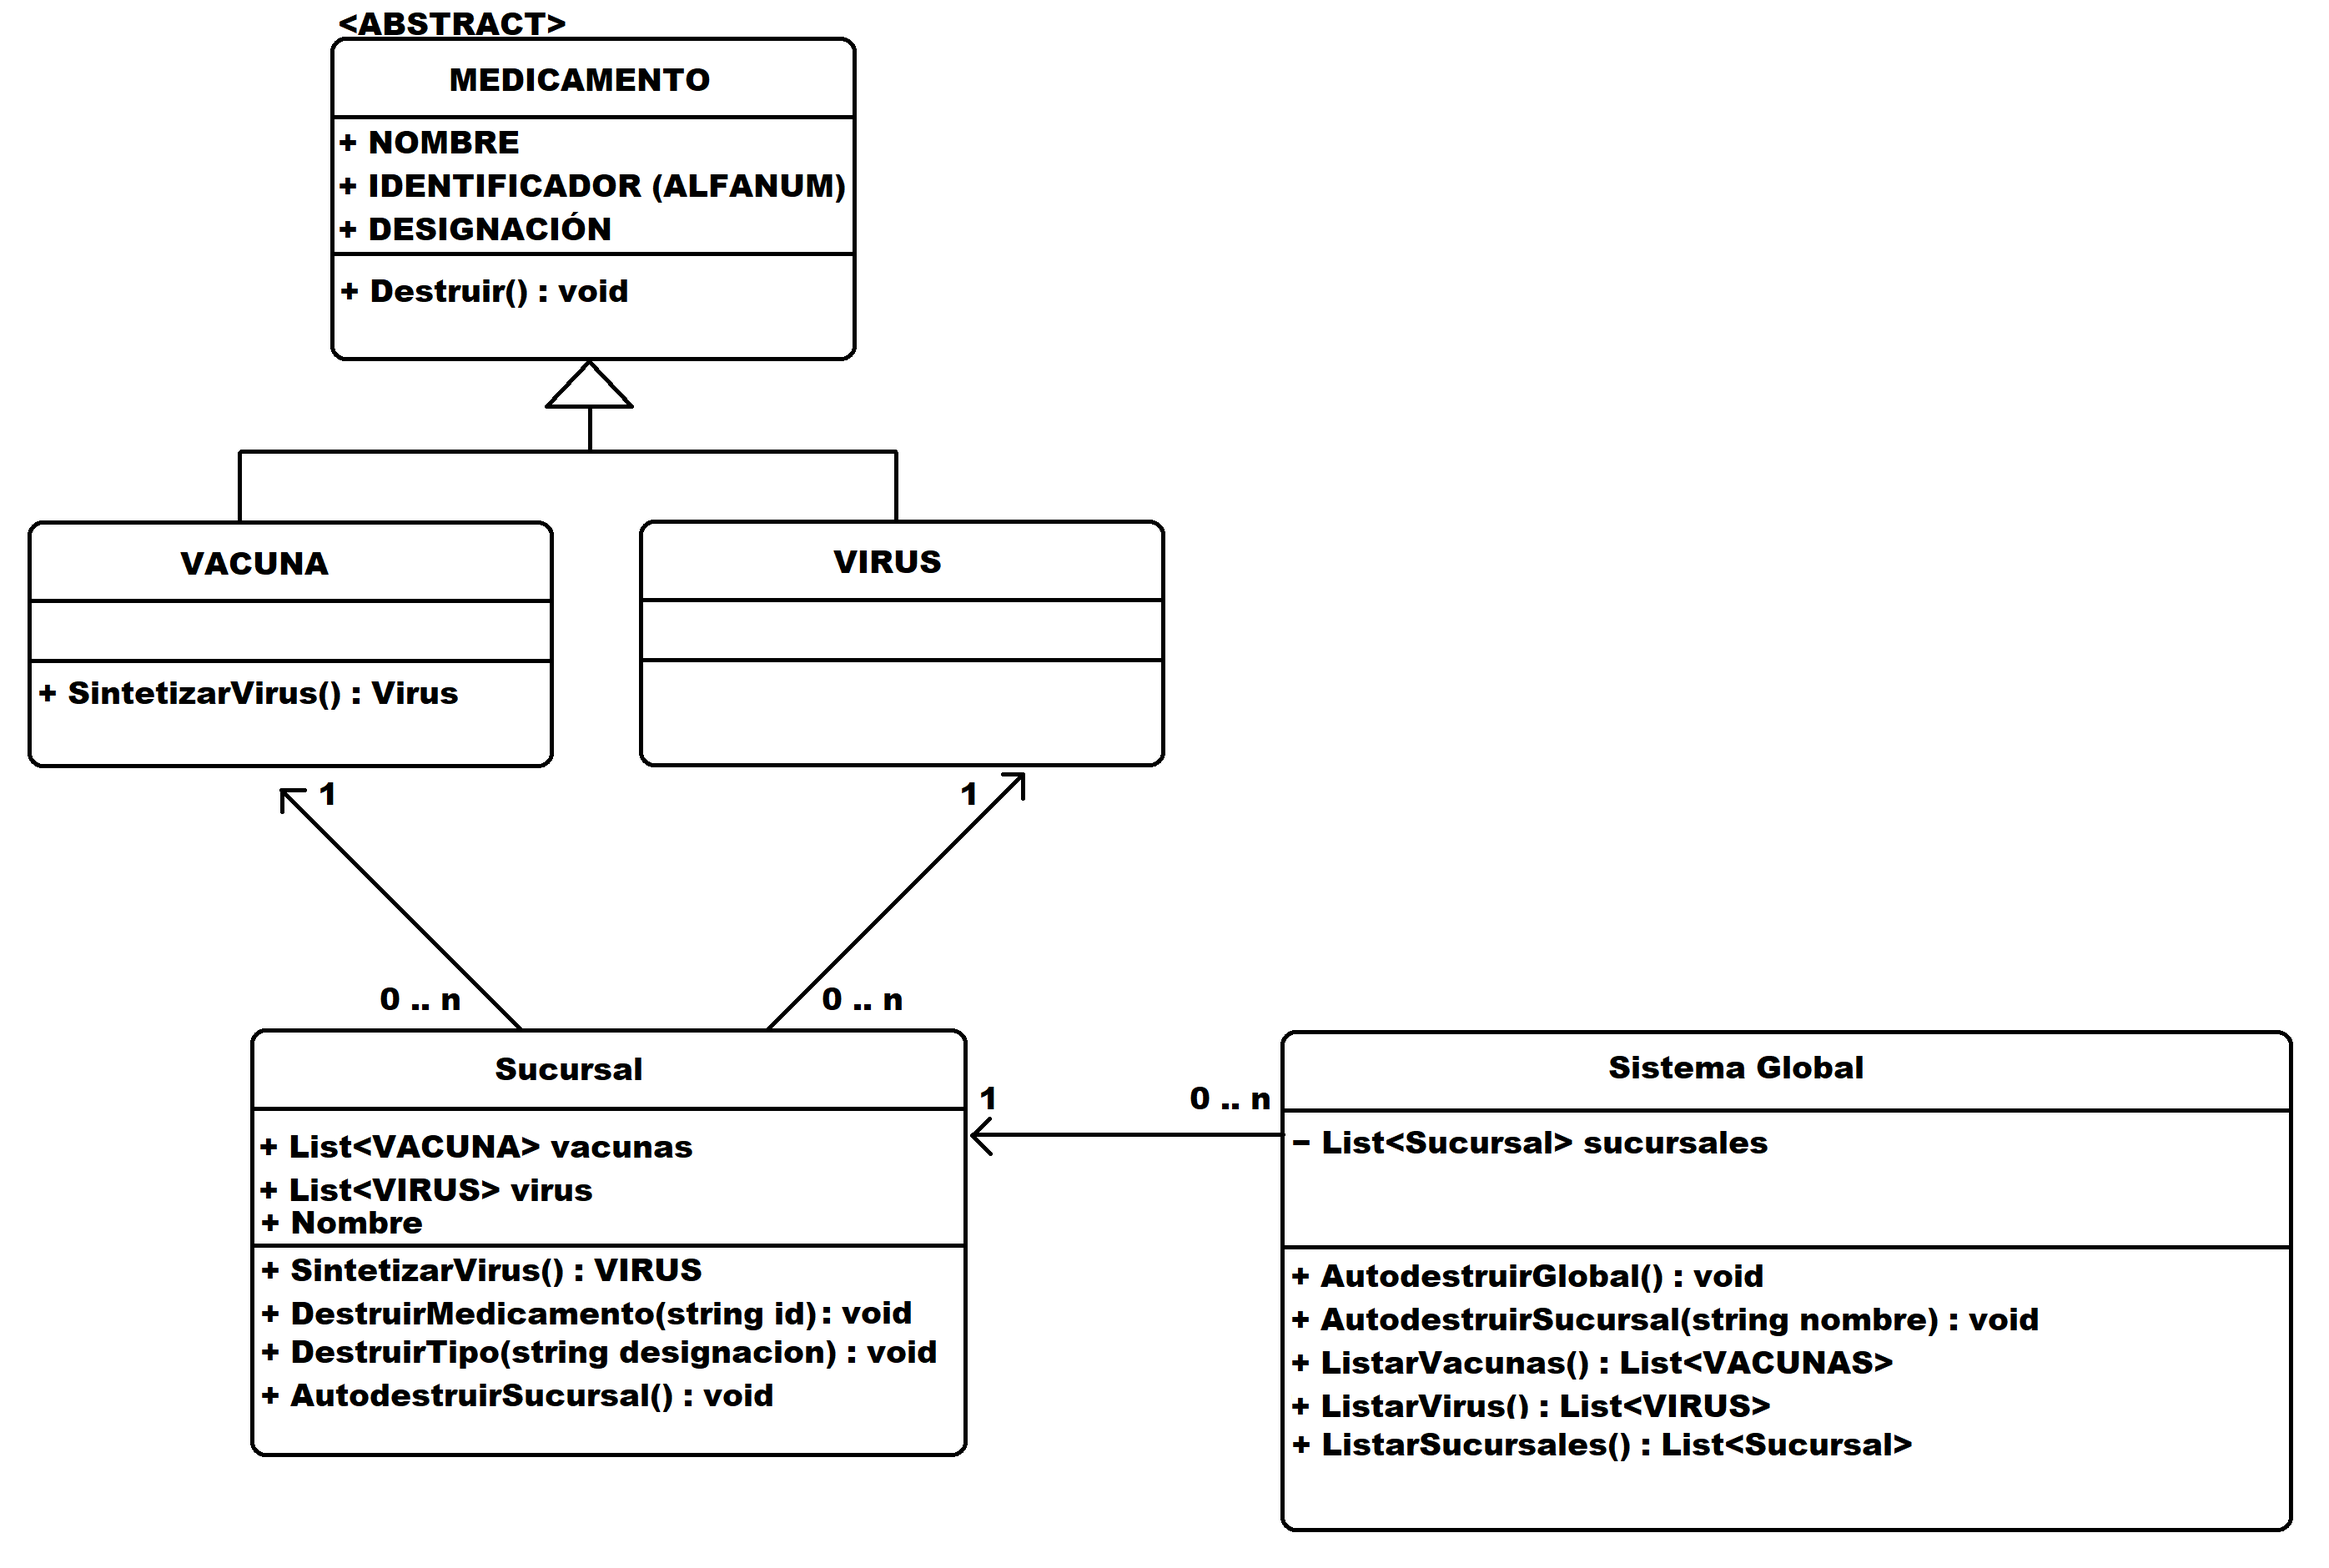
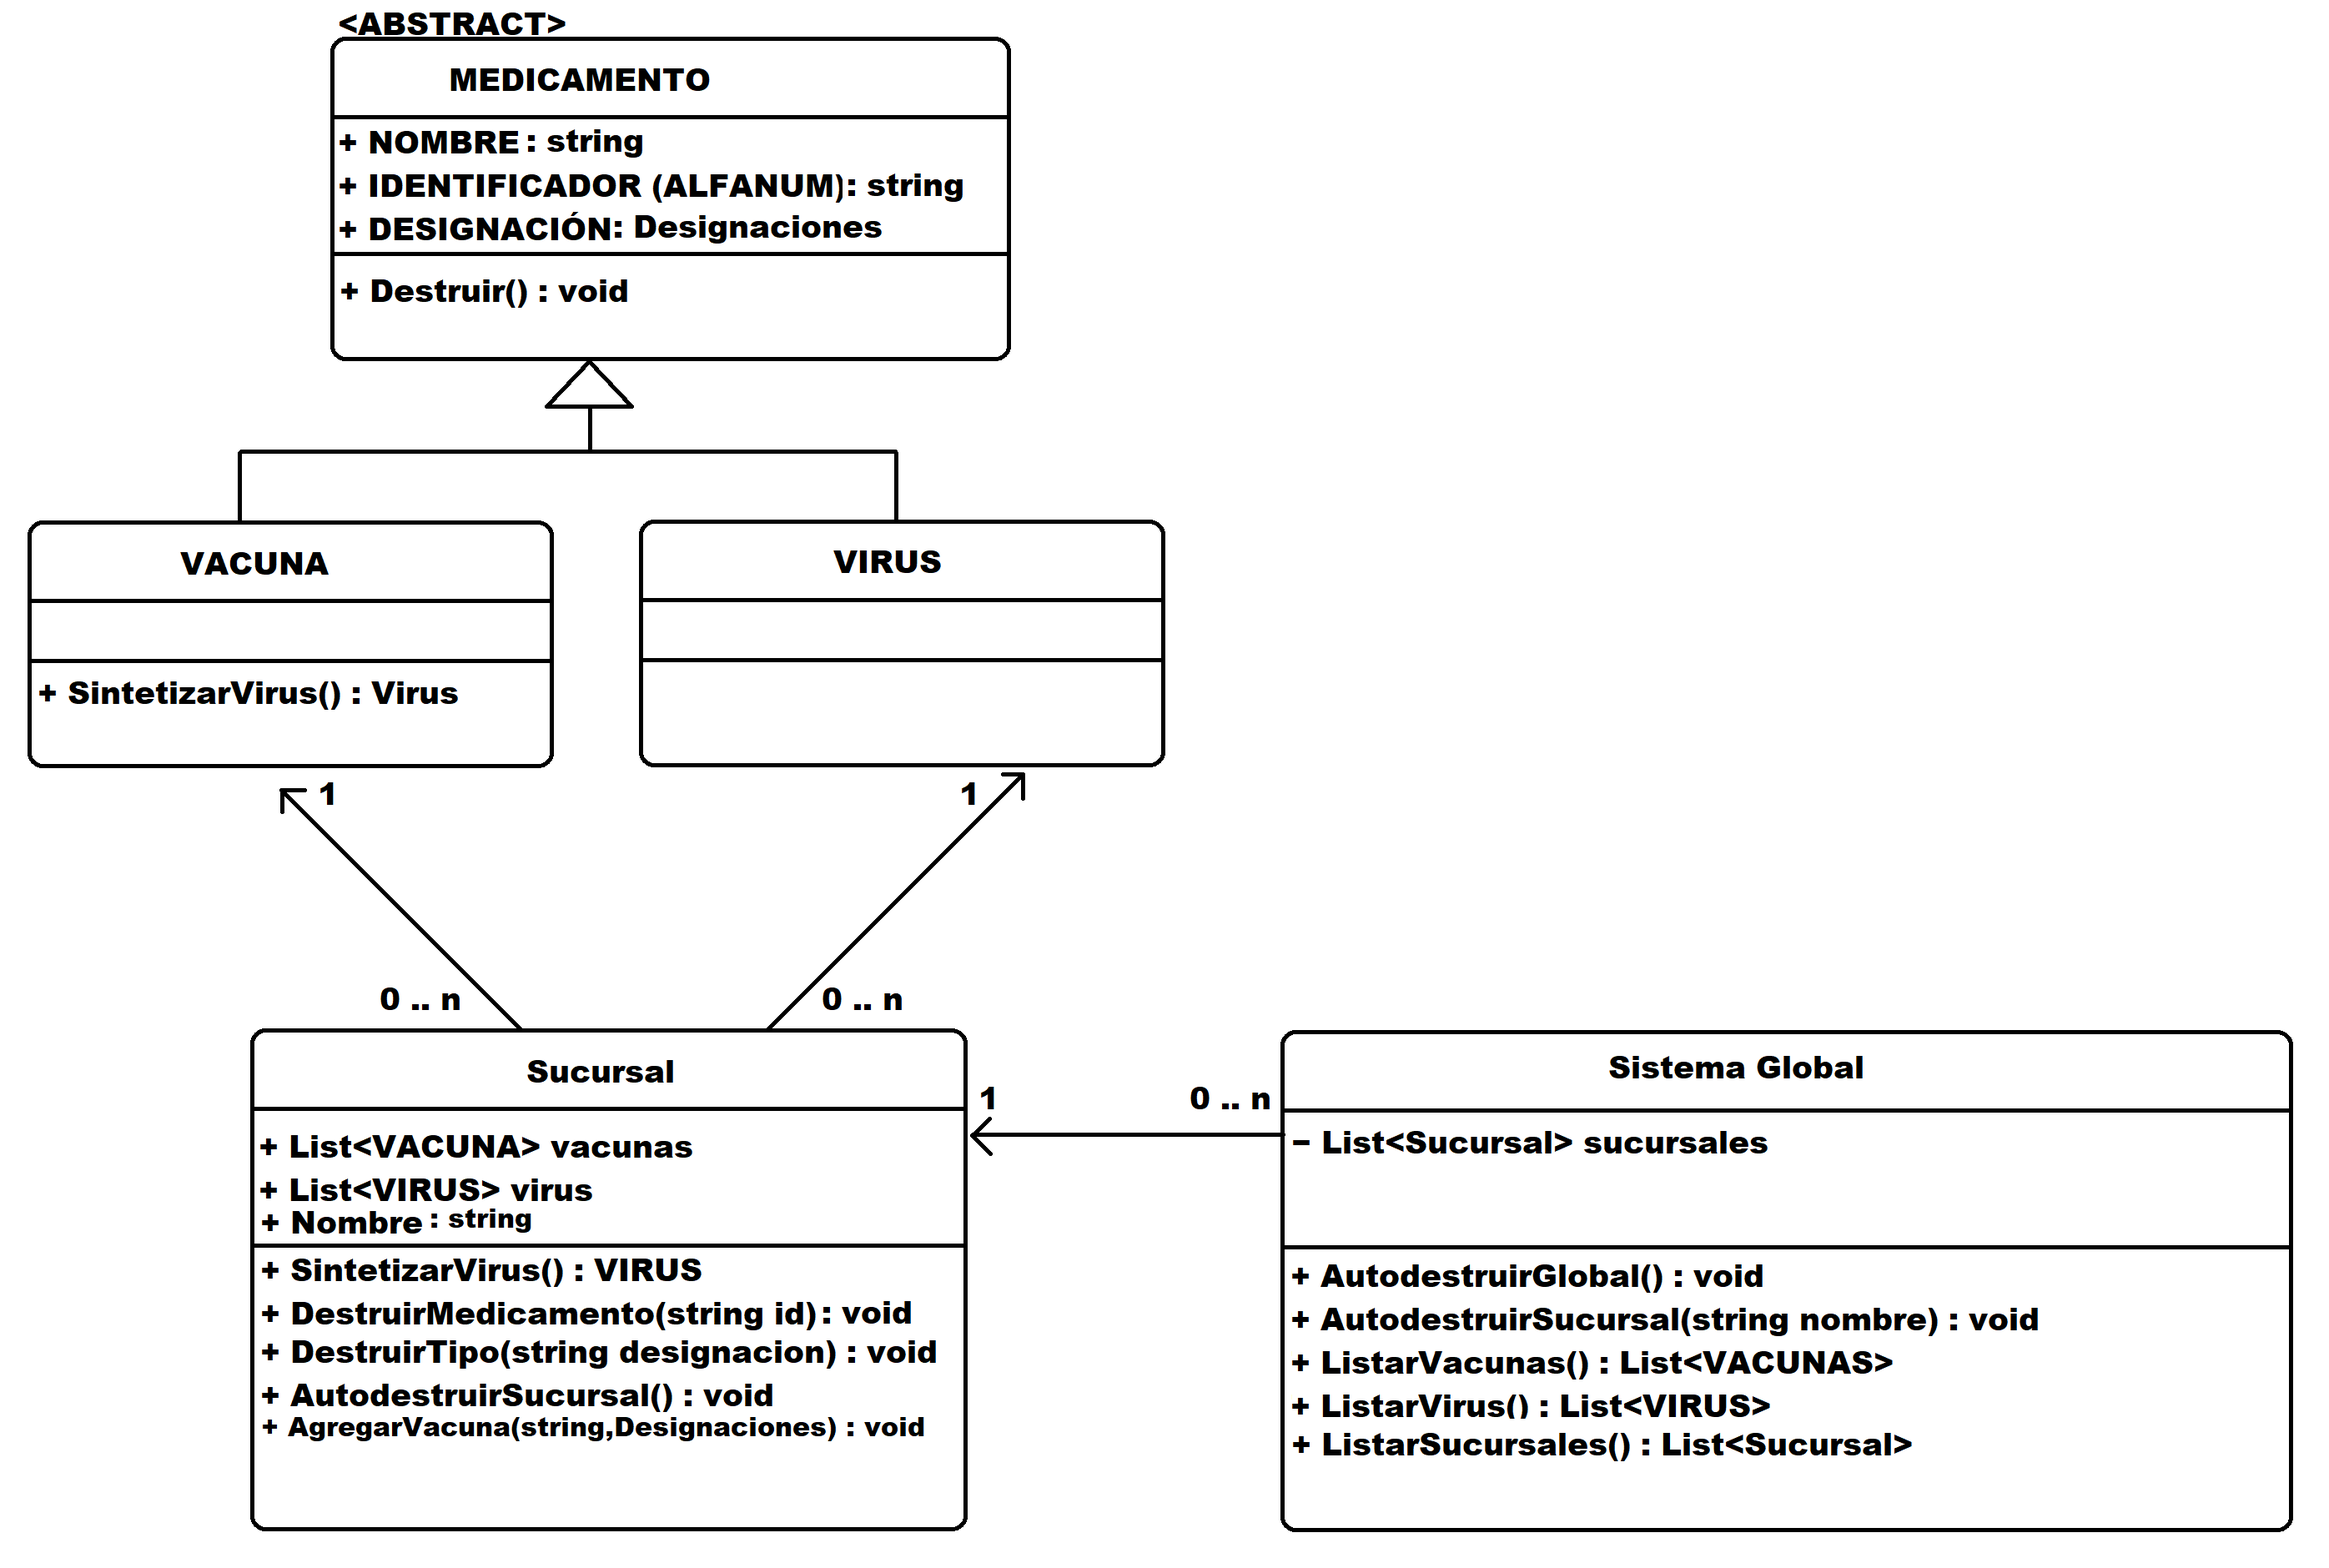
cositas

diff --git a/Medicamento.cs b/Medicamento.cs
@@ -1,0 +1,25 @@
+using System;
+using System.Collections.Generic;
+using System.Linq;
+using System.Text;
+using System.Threading.Tasks;
+
+namespace EjercicioCorporacionParaguas
+{
+    abstract class Medicamento
+    {
+        public string Nombre { get; protected set; }
+        public string Id { get; protected set; }
+        public Designaciones Designacion { get; protected set; }
+        protected int cantidadCharEnId;
+
+        public Medicamento(string nombre,Designaciones designacion)
+        {
+            Nombre = nombre;
+            Designacion = designacion;
+            Id = Randomizador.RandAlfaNum(cantidadCharEnId);
+        }
+
+        public abstract void Destruir();
+    }
+}

diff --git a/Randomizador.cs b/Randomizador.cs
@@ -1,0 +1,25 @@
+using System;
+using System.Collections.Generic;
+using System.Linq;
+using System.Text;
+using System.Threading.Tasks;
+
+namespace EjercicioCorporacionParaguas
+{
+    class Randomizador
+    {
+        public static string RandAlfaNum(int cantidad)
+        {
+            Random rnd = new Random();
+            string str = "";
+            while (str.Length < cantidad) 
+            {
+                if (rnd.NextDouble() > 0.5)
+                    str = str + (char)rnd.Next(65, 91); // letras mayus
+                else
+                    str = str + (char)rnd.Next(48, 58); // numeros
+            }
+            return str;
+        }
+    }
+}

diff --git a/Vacuna.cs b/Vacuna.cs
@@ -1,0 +1,21 @@
+using System;
+using System.Collections.Generic;
+using System.Linq;
+using System.Text;
+using System.Threading.Tasks;
+
+namespace EjercicioCorporacionParaguas
+{
+    class Vacuna : Medicamento
+    {
+        public Vacuna(string nombre, Designaciones designacion) : base(nombre, designacion){}
+        public override void Destruir()
+        {
+            Id = "XXX";
+        }
+        public Virus SintetizarVirus()
+        {
+            return new Virus("Virus " + Nombre, Designacion, Id);
+        }
+    }
+}

diff --git a/Virus.cs b/Virus.cs
@@ -1,0 +1,20 @@
+using System;
+using System.Collections.Generic;
+using System.Linq;
+using System.Text;
+using System.Threading.Tasks;
+
+namespace EjercicioCorporacionParaguas
+{
+    class Virus : Medicamento
+    {
+        public Virus(string nombre,Designaciones designacion,string IdVacuna) : base(nombre, designacion)
+        {
+            Id = IdVacuna+Randomizador.RandAlfaNum(1);
+        }
+        public override void Destruir()
+        {
+            Id = "YYYY";
+        }
+    }
+}

diff --git a/Sucursal.cs b/Sucursal.cs
@@ -1,0 +1,14 @@
+using System;
+using System.Collections.Generic;
+using System.Linq;
+using System.Text;
+using System.Threading.Tasks;
+
+namespace EjercicioCorporacionParaguas
+{
+    class Sucursal
+    {
+        public List<Vacuna> Vacunas { get; private set; }
+        public List<Virus> Virus { get; private set; }
+    }
+}

diff --git a/Designaciones.cs b/Designaciones.cs
@@ -1,0 +1,18 @@
+using System;
+using System.Collections.Generic;
+using System.Linq;
+using System.Text;
+using System.Threading.Tasks;
+
+namespace EjercicioCorporacionParaguas
+{
+    enum Designaciones
+    {
+        ALFA,
+        BETA,
+        GAMA,
+        EPSILON,
+        OMEGA,
+        TAU
+    }
+}

diff --git a/Program.cs b/Program.cs
@@ -1,2 +1,1 @@
-// See https://aka.ms/new-console-template for more information
-Console.WriteLine("Hello, World!");
+using EjercicioCorporacionParaguas;
